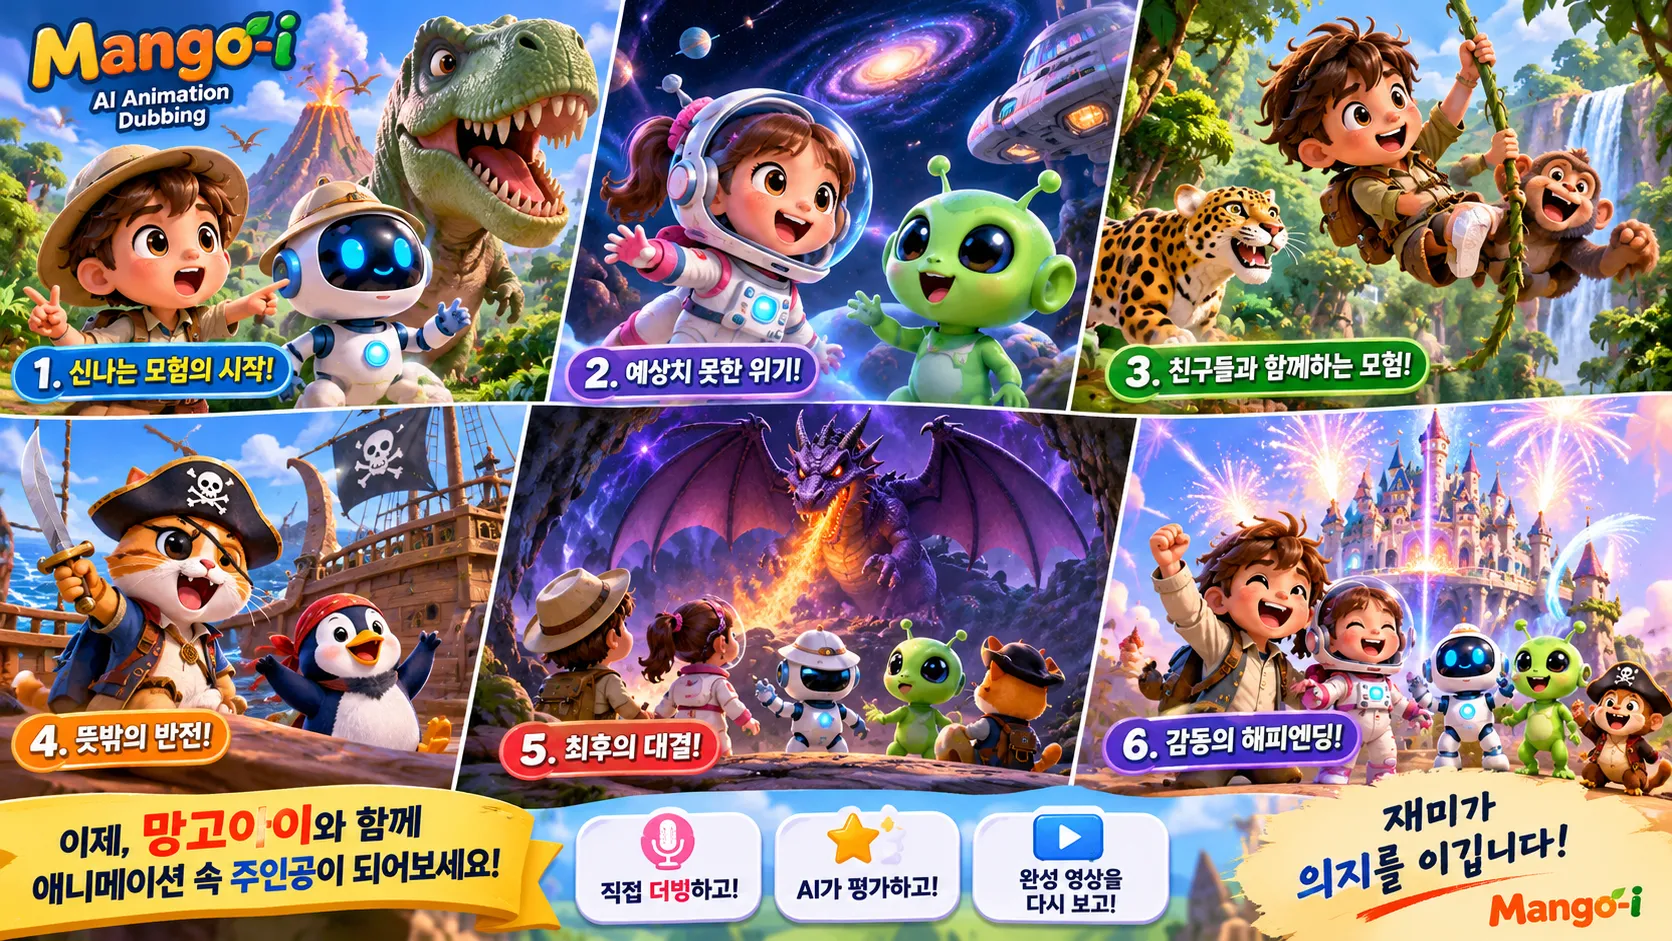
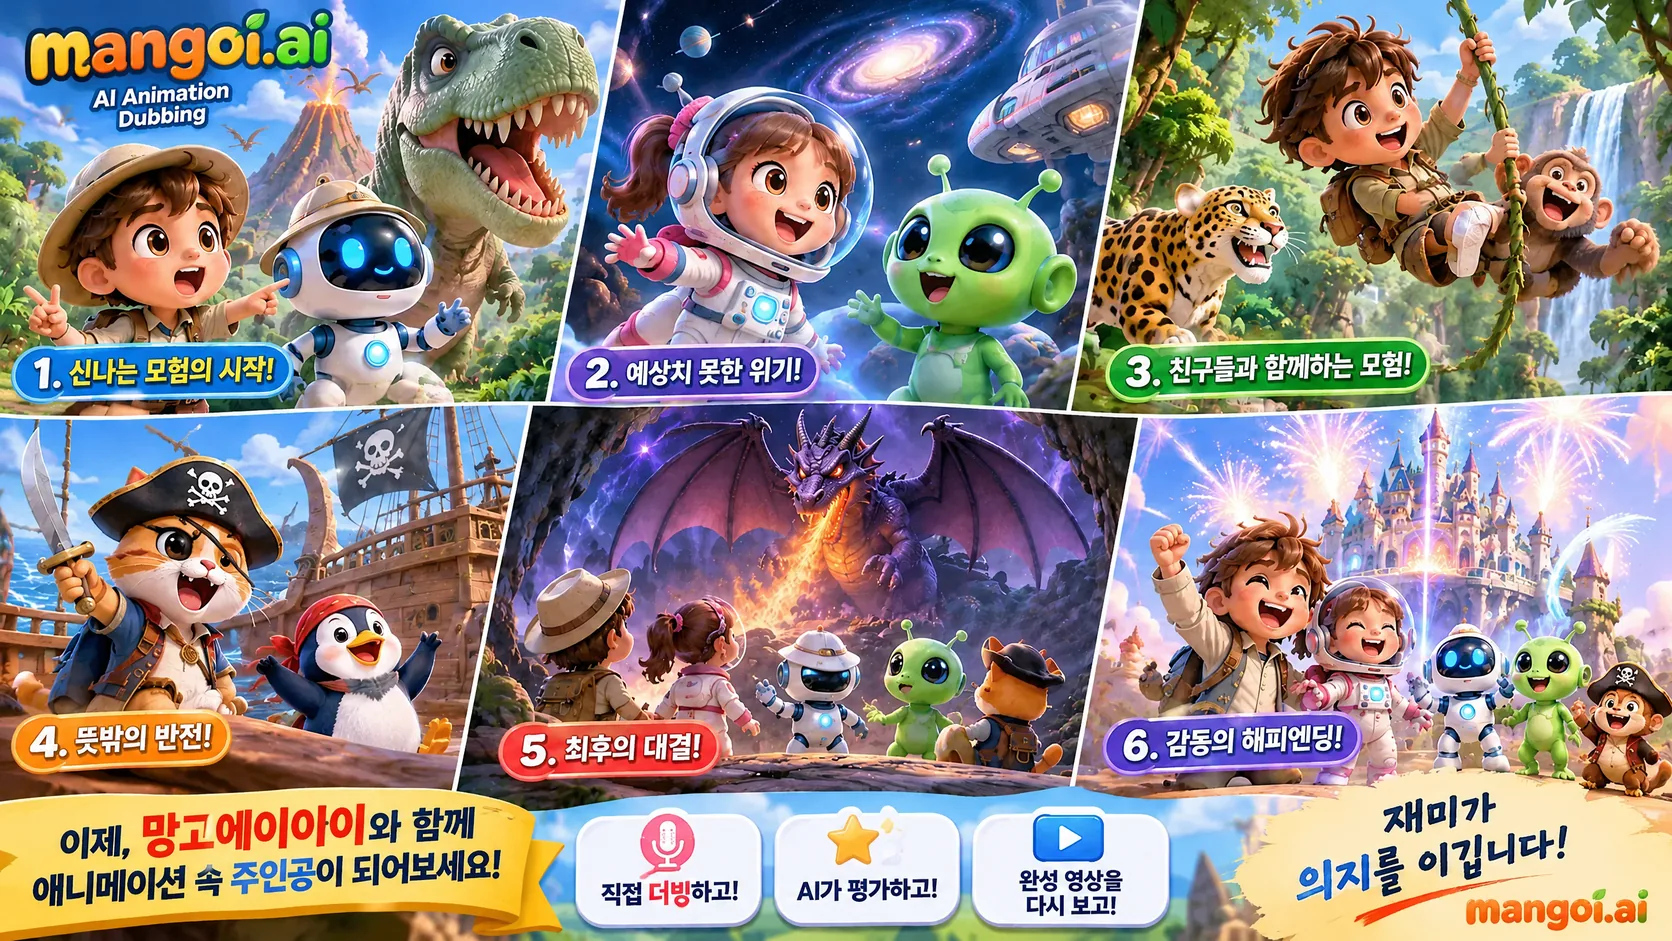
A.i영화더빙 포스터: 로고 mangoi.ai · 문구 「망고에이아이」로 수정
- 포스터 왼쪽 위·오른쪽 아래 로고 Mango-i → mangoi.ai
- 노란 띠 문구 「이제, 망고아이와 함께」 → 「이제, 망고에이아이와 함께」
- 나머지 장면·문구는 그대로(이미지 편집 후 글자 전수 눈 확인)
- 같은 이름으로 갈아 끼우므로 img 주소에 ?v=2 (이미지 7일 캐시)

Claude-Session: https://claude.ai/code/session_01KTgK3XfPRjLuyFaqHXM5ME

diff --git a/cloudflare-deploy/public/ai-dubbing.html b/cloudflare-deploy/public/ai-dubbing.html
@@ -60,7 +60,8 @@
 <main class="wrap">
   <p class="intro"><span data-ko="애니메이션 속 주인공이 되어 내 목소리로 영어 대사를 더빙해요." data-en="Become the hero of an animation and dub the English lines in your own voice.">애니메이션 속 주인공이 되어 내 목소리로 영어 대사를 더빙해요.</span></p>
 
-  <img class="poster" src="/img/dubbing/poster.webp" width="1672" height="941" alt="A.i영화더빙 — 모험의 시작부터 해피엔딩까지 6장면 / A.i Movie Dubbing — six scenes from the start of the adventure to the happy ending">
+  <!-- 포스터는 «같은 이름으로» 갈아 끼우므로 ?v= 를 올린다(이미지 7일 캐시) — 2: 로고 mangoi.ai·«망고에이아이» (2026-10-19) -->
+  <img class="poster" src="/img/dubbing/poster.webp?v=2" width="1672" height="941" alt="A.i영화더빙 — 모험의 시작부터 해피엔딩까지 6장면 / A.i Movie Dubbing — six scenes from the start of the adventure to the happy ending">
 
   <section class="feats" aria-label="학습 방법">
     <div class="feat"><b data-ko="🎤 직접 더빙하고!" data-en="🎤 Dub it yourself!">🎤 직접 더빙하고!</b><span data-ko="캐릭터를 골라 대사를 말해요" data-en="Pick a character and say the lines">캐릭터를 골라 대사를 말해요</span></div>
